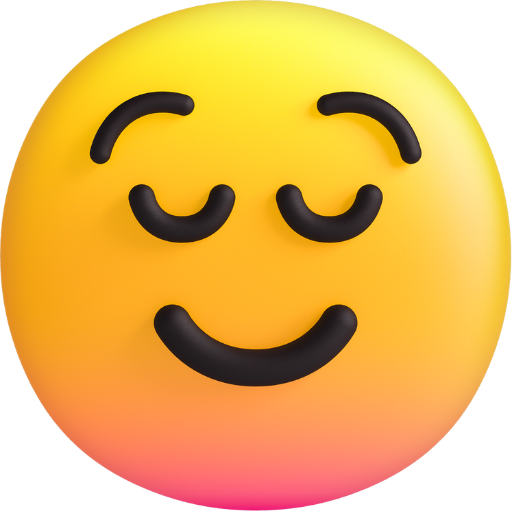
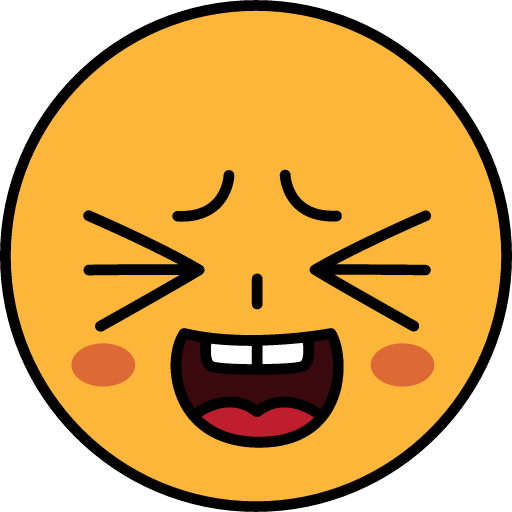
new images added & main.js & style.css updated

diff --git a/main.js b/main.js
@@ -1,5 +1,28 @@
 
 
-function changeEmoje(){
-    let image = document.getElementById("emoje").src="./images/2.png";
-};
+// function changeEmoje(){
+//     let image = document.getElementById("emoje").src="./images/2.png";
+// };
+
+
+let arr = [
+    "Smiling Face",
+    "Grinning Squinting Face",
+    "Thinking Face",
+    "Kissing Face",
+    "Pleading Face",
+    "Unamused Face",
+    "Angry Face",
+    "Loudly Crying Face"
+];
+
+let counter = 1;
+let ourImage = document.querySelector("#image");
+
+ourImage.addEventListener("click", function() {
+  ourImage.src = `./images/${counter}.png`;
+  counter++;
+  if (counter > 8) {
+    counter = 1;
+  }
+});

diff --git a/style.css b/style.css
@@ -9,6 +9,7 @@ body{
     display: flex;
     justify-content: center;
     align-items: center;
+    font-family: sans-serif;
 }
 
 
@@ -19,9 +20,24 @@ body{
     display: flex;
     justify-content: center;
     align-items: center;
+    flex-direction: column;
 }
 
 .box img{
     height: 100%;
     width: 100%;
+}
+
+.box p{
+    margin-top: 5px;
+    padding-bottom: 10px;
+    font-size: 70px;
+    background-color: #DD6A34;
+    width: 100%;
+    text-align: center;
+    border-radius: 4px;
+    color: white;
+    display: flex;
+    align-items: center;
+    justify-content: center;
 }

diff --git a/index.html b/index.html
@@ -9,7 +9,7 @@
 <body>
     
     <dix class="box">
-        <img src="./images/1.png" alt="Emoje" id="emoje" onclick="changeEmoje()">
+        <img id="image" src="./images/1.png" />
     </dix>
 
     <script src="main.js"></script>
